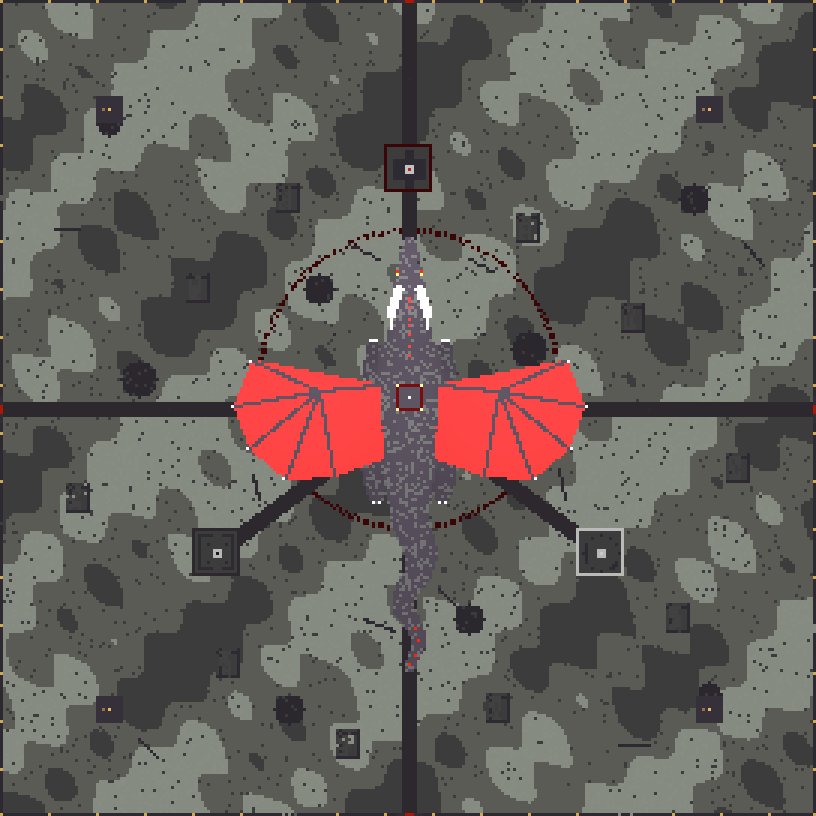
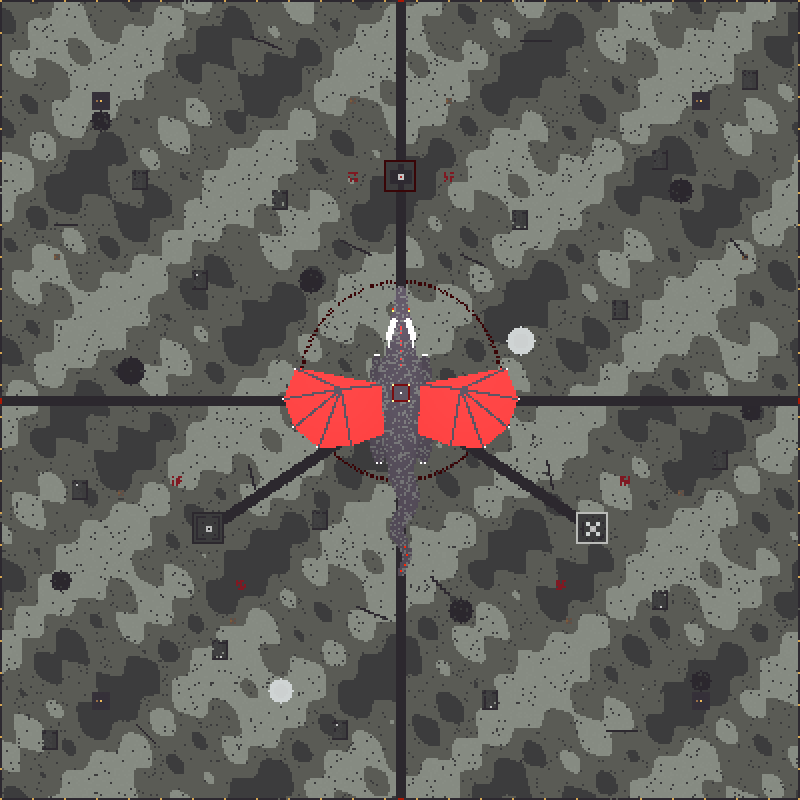
Warzone agrandie à 25×25 chunks, avec pièges
Tout est recalé sur 400×400 : avant-postes, tours, ruines, murs, piliers,
cratères, brèches et avant-postes extérieurs (176 blocs au-delà du bord).
Pièges : fosses à pics avec échelle, plaques piégées sur distributeurs de
flèches, toiles dans les ruines, ronces sur les approches, neige poudreuse
à Argent et dans deux cratères. write_schem sait écrire des block entities
(distributeurs remplis).

Claude-Session: https://claude.ai/code/session_01VPVdT1uD4uVrbpiLTJKxbM

diff --git a/minecraft/warzone/generate.py b/minecraft/warzone/generate.py
@@ -2,7 +2,7 @@
 
 Usage : python3 minecraft/warzone/generate.py   (Pillow + numpy ; réutilise minecraft/spawn)
 Sorties dans minecraft/warzone/ :
-  vaeloria-warzone.schem              la warzone : 17 × 17 chunks (272 × 272), dragon, bâtiments, 3 avant-postes
+  vaeloria-warzone.schem              la warzone : 25 × 25 chunks (400 × 400), dragon, bâtiments, 3 avant-postes, pièges
   vaeloria-avant-poste-exterieur.schem  délimitation d'un avant-poste extérieur de 3 × 3 chunks, à coller 4 fois
   apercu-*.png
 
@@ -26,7 +26,7 @@ _spawn = importlib.util.module_from_spec(_spec)
 _spec.loader.exec_module(_spawn)
 LOGO_BLOCKS, Palette, write_schem, logo_grid = _spawn.LOGO_BLOCKS, _spawn.Palette, _spawn.write_schem, _spawn.logo_grid
 
-HALF = 136  # bord : chunks -8..8 autour du chunk central → x, z de -136 à 135
+HALF = 200  # bord : chunks -12..12 autour du chunk central → x, z de -200 à 199
 YMIN, YMAX = -8, 108
 LIFT = 44  # le dragon vole : son point le plus bas reste à plus de 44 blocs du sol, hors de portée d'une perle (~37)
 PB = "minecraft:polished_blackstone_bricks"
@@ -34,12 +34,12 @@ DT = "minecraft:deepslate_tiles"
 
 # Les trois avant-postes intérieurs : un chunk chacun, centrés sur des centres de chunk, à 120° autour du dragon.
 OUTPOSTS = {
-    "rubis": {"center": (0, -80), "glass": "minecraft:red_stained_glass", "line": "minecraft:red_nether_bricks"},
-    "argent": {"center": (64, 48), "glass": "minecraft:white_stained_glass", "line": "minecraft:calcite"},
-    "onyx": {"center": (-64, 48), "glass": "minecraft:black_stained_glass", "line": "minecraft:polished_blackstone"},
+    "rubis": {"center": (0, -112), "glass": "minecraft:red_stained_glass", "line": "minecraft:red_nether_bricks"},
+    "argent": {"center": (96, 64), "glass": "minecraft:white_stained_glass", "line": "minecraft:calcite"},
+    "onyx": {"center": (-96, 64), "glass": "minecraft:black_stained_glass", "line": "minecraft:polished_blackstone"},
 }
 GATES = {"nord": (0, -1), "est": (1, 0), "sud": (0, 1), "ouest": (-1, 0)}
-OUTER_D = 336  # centre des avant-postes extérieurs : 176 blocs au-delà du bord de la warzone
+OUTER_D = 400  # centre des avant-postes extérieurs : 176 blocs au-delà du bord de la warzone
 ARRIVAL = (0, 34, -4)  # pieds du joueur sur la plateforme, dans le repère du dragon (avant élévation)
 
 
@@ -49,6 +49,7 @@ class Vol:
         self.pal = Palette()
         n = 2 * half
         self.v = np.zeros((ymax - ymin + 1, n, n), dtype=np.int32)
+        self.block_entities = []  # (x, y, z, id, items) en coordonnées locales
 
     def ok(self, x, y, z):
         return -self.half <= x < self.half and -self.half <= z < self.half and self.ymin <= y <= self.ymax
@@ -109,7 +110,9 @@ def ground(w, rng):
             if top == "minecraft:pale_moss_block" and rng.random() < 0.18:
                 w.put(x, 0, z, "minecraft:pale_moss_carpet")
     # Cratères de bataille : creux peu profonds, fond en pierre noire, une veine de rubis.
-    for cx, cz, r in ((-30, -40, 5), (40, -20, 6), (20, 70, 5), (-90, -10, 6), (95, -70, 5), (-40, 100, 5), (100, 95, 4), (-100, -95, 4)):
+    frost = {(60, -30), (-60, 145)}  # cratères de givre : fond en neige poudreuse
+    for cx, cz, r in ((-45, -60, 6), (60, -30, 7), (30, 105, 6), (-135, -15, 7), (140, -105, 6), (-60, 145, 6), (150, 140, 5),
+                      (-150, -140, 5), (-170, 90, 5), (175, 5, 5)):
         for x in range(cx - r, cx + r + 1):
             for z in range(cz - r, cz + r + 1):
                 d = math.hypot(x - cx, z - cz)
@@ -117,7 +120,12 @@ def ground(w, rng):
                     depth = 1 if d > r * 0.55 else 2
                     for y in range(-depth, 1):
                         w.put(x, y, z, "minecraft:air")
-                    w.put(x, -depth - 1, z, "minecraft:deepslate_redstone_ore" if rng.random() < 0.08 else "minecraft:blackstone")
+                    if (cx, cz) in frost:
+                        for y in range(-depth - 1, -depth + 1):
+                            w.put(x, y, z, "minecraft:powder_snow")
+                        w.put(x, -depth - 2, z, "minecraft:blackstone")
+                    else:
+                        w.put(x, -depth - 1, z, "minecraft:deepslate_redstone_ore" if rng.random() < 0.08 else "minecraft:blackstone")
 
 
 def road(w, a, b, width=2):
@@ -135,7 +143,7 @@ def road(w, a, b, width=2):
 
 def border(w, rng):
     """Muret de 2 blocs sur le bord exact des chunks, pilier à chaque coin de chunk, 4 portes et des brèches."""
-    breaches = {(-1, 40), (-1, -72), (1, 72), (1, -40)}  # (côté, position) : brèches à travers le muret
+    breaches = {(-1, 59), (-1, -106), (1, 106), (1, -59)}  # (côté, position) : brèches à travers le muret
 
     def wall_at(t, c):
         return all(abs(t - p) > 2 for s, p in breaches if s == c)
@@ -325,6 +333,10 @@ def ruin(w, cx, cz, rng, wdt=7, dpt=9):
                     continue
                 window = y == 2 and (dx % 3 == 0) and abs(dz) == dpt // 2 and not door
                 w.put(x, y, z, "minecraft:air" if window else ("minecraft:cracked_polished_blackstone_bricks" if rng.random() < 0.3 else PB))
+    # Piège : toiles d'araignée derrière la porte et dans un coin. On entre, on est ralenti, on se fait cueillir.
+    w.put(cx, 0, cz + dpt // 2 - 1, "minecraft:cobweb")
+    w.put(cx, 1, cz + dpt // 2 - 1, "minecraft:cobweb")
+    w.put(cx - wdt // 2 + 1, 0, cz - dpt // 2 + 1, "minecraft:cobweb")
     for dx in range(-wdt // 2 + 1, 1):  # reste de toit d'un côté
         for dz in range(-dpt // 2 + 1, dpt // 2):
             if rng.random() < 0.7:
@@ -388,6 +400,12 @@ def outpost(w, key, rng):
                 w.put(x, y, z, "minecraft:calcite" if y < h - 1 else "minecraft:chiseled_polished_blackstone")
         for a, b in (((cx - 5, cz - 2), (cx - 5, cz + 2)), ((cx + 3, cz + 5), (cx + 5, cz + 4))):
             wall_seg(w, a, b, 2, rng)
+        for sx in (-1, 1):  # piège : quatre plaques de neige poudreuse au ras du sol, couleur argent
+            for sz in (-1, 1):
+                for dx in (2, 3):
+                    for dz in (2, 3):
+                        for y in (-2, -1):
+                            w.put(cx + sx * dx, y, cz + sz * dz, "minecraft:powder_snow")
         beacon(0)
     else:
         # Cour fermée : murs de 4, deux portes face à face. Des goulots, pas de fenêtres.
@@ -405,6 +423,34 @@ def outpost(w, key, rng):
         beacon(0)
 
 
+def traps(w, rng):
+    """Petits pièges répartis dans la warzone. Tout est déjà construit : rien à poser en jeu."""
+    # Fosses à pics : 3 × 3, 5 de profondeur, stalagmites au fond, une échelle pour ressortir lentement.
+    for px, pz in ((24, -150), (-24, -150), (140, 46), (84, 110), (-140, 46), (-84, 110), (172, -72), (-172, -72)):
+        for x in range(px - 1, px + 2):
+            for z in range(pz - 1, pz + 2):
+                for y in range(-5, 1):
+                    w.put(x, y, z, "minecraft:air")
+                w.put(x, -6, z, "minecraft:tuff")
+                if (x + z) % 2 == 0:
+                    w.put(x, -5, z, "minecraft:pointed_dripstone[thickness=tip,vertical_direction=up]")
+        for y in range(-5, 0):
+            w.put(px - 1, y, pz, "minecraft:ladder[facing=east]")
+    # Plaques piégées : une plaque de pierre noire sur la route, un distributeur de flèches caché dessous.
+    arrows = [(slot, "minecraft:arrow", 64) for slot in range(9)]
+    for x, z in ((1, -60), (-1, -170), (-1, 60), (1, 170), (60, 1), (170, -1), (-60, -1), (-170, 1), (48, 32), (-48, 32)):
+        w.put(x, -1, z, "minecraft:dispenser[facing=up]")
+        w.put(x, 0, z, "minecraft:polished_blackstone_pressure_plate")
+        w.block_entities.append((x, -1, z, "minecraft:dispenser", arrows))
+    # Ronces rubis : buissons de baies sur les approches des avant-postes. Elles ralentissent et blessent.
+    for cx, cz in ((-24, -112), (24, -112), (112, 40), (80, 92), (-112, 40), (-80, 92)):
+        for x in range(cx - 2, cx + 3):
+            for z in range(cz - 2, cz + 3):
+                if rng.random() < 0.65:
+                    w.put(x, -1, z, "minecraft:coarse_dirt")
+                    w.put(x, 0, z, "minecraft:sweet_berry_bush[age=3]")
+
+
 def build_warzone():
     rng = np.random.default_rng(21)
     w = Vol()
@@ -415,27 +461,30 @@ def build_warzone():
     for name, (dx, dz) in GATES.items():
         road(w, (dx * 30, dz * 30), (dx * (HALF - 1), dz * (HALF - 1)))
     border(w, rng)
-    # Tours de guet aux quatre diagonales : point haut entre deux avant-postes.
-    for x, z in ((-100, -100), (100, -100), (100, 100), (-100, 100)):
+    # Tours de guet aux quatre diagonales : point haut entre deux portes.
+    for x, z in ((-150, -150), (150, -150), (150, 150), (-150, 150)):
         tower(w, x, z)
-    # Ruines, murs brisés, piliers : couvert réparti dans chaque secteur.
-    for x, z in ((-40, -70), (40, -60), (-110, 30), (110, 20), (30, 100), (-20, 112), (-70, -40), (75, -30), (-60, 85), (90, 70)):
+    # Ruines, murs brisés, piliers : couvert réparti dans chaque secteur, jamais sur les routes.
+    for x, z in ((-60, -100), (60, -90), (-160, 45), (160, 30), (45, 150), (-30, 165), (-100, -60), (110, -45),
+                 (-90, 125), (130, 100), (-130, -110), (130, -120), (-40, 60), (175, -160), (-175, 170)):
         ruin(w, x, z, rng)
-    for a, b, h in (((-20, -55), (-10, -50), 3), ((20, -50), (28, -46), 2), ((50, 20), (52, 30), 3), ((-52, 22), (-50, 30), 2),
-                    ((-15, 70), (-5, 74), 2), ((10, 60), (16, 66), 3), ((-118, -60), (-110, -60), 2), ((112, -55), (118, -48), 2),
-                    ((70, 112), (80, 112), 2), ((-90, 110), (-84, 116), 3)):
+    for a, b, h in (((-30, -80), (-15, -73), 3), ((30, -73), (41, -68), 2), ((73, 30), (76, 44), 3), ((-76, 32), (-73, 44), 2),
+                    ((-22, 103), (-7, 109), 2), ((15, 88), (24, 97), 3), ((-173, -88), (-162, -88), 2), ((165, -81), (173, -71), 2),
+                    ((103, 165), (118, 165), 2), ((-132, 162), (-123, 171), 3), ((60, -180), (75, -180), 2), ((-75, -182), (-60, -176), 3)):
         wall_seg(w, a, b, h, rng)
-    for x, z in ((-25, -25), (25, -25), (-30, 30), (30, 30), (0, 60), (-80, 0), (80, 0), (0, -110), (60, -100), (-60, -100)):
+    for x, z in ((-37, -37), (37, -37), (-44, 44), (44, 44), (12, 90), (-118, 12), (118, -12), (14, -165), (90, -150), (-90, -150),
+                 (150, 60), (-150, 60), (60, 180), (-60, 180)):
         pillar(w, x, z, 5)
     for key in OUTPOSTS:
         outpost(w, key, rng)
+    traps(w, rng)
     dragon(Lifted(w, LIFT), rng)
     # Cercle d'atterrissage sous le dragon en vol : on saute du dos, on atterrit ici (dégâts de chute coupés par la région).
     for a in range(0, 360, 2):
         for rr in (49, 50):
             x, z = round(rr * math.cos(math.radians(a))), round(-10 + rr * math.sin(math.radians(a)))
-            if w.get(x, -1, z) not in (PB, "minecraft:polished_blackstone"):
-                w.put(x, -1, z, "minecraft:red_nether_bricks")
+            if w.get(x, -1, z) in ("minecraft:pale_moss_block", "minecraft:tuff", "minecraft:cobbled_deepslate"):
+                w.put(x, -1, z, "minecraft:red_nether_bricks")  # seulement sur le sol nu : routes et pièges intacts
     return w
 
 
@@ -459,7 +508,8 @@ def render(w, path_top, path_side, scale):
              "blackstone": (53, 48, 56), "calcite": (223, 224, 220), "quartz": (236, 230, 223), "red_stained": (190, 40, 40),
              "white_stained": (235, 235, 235), "black_stained": (30, 30, 34), "redstone": (175, 24, 5), "red_nether": (69, 7, 9),
              "lantern": (230, 180, 90), "iron": (220, 220, 220), "beacon": (120, 230, 220), "shroom": (240, 140, 70),
-             "ladder": (150, 110, 70), "lodestone": (150, 150, 155)}
+             "ladder": (150, 110, 70), "lodestone": (150, 150, 155), "powder_snow": (248, 253, 253),
+             "sweet_berry": (150, 30, 40), "cobweb": (230, 230, 230), "dripstone": (130, 100, 85), "pressure_plate": (60, 55, 64)}
 
     def color(n):
         return next((c for k, c in shade.items() if k in n), (110, 110, 110))
@@ -490,10 +540,11 @@ def render(w, path_top, path_side, scale):
 
 def main():
     w = build_warzone()
-    write_schem(HERE / "vaeloria-warzone.schem", w.v, w.pal.names, (HALF, -YMIN, HALF))
+    bes = [(x + HALF, y - YMIN, z + HALF, i, items) for x, y, z, i, items in w.block_entities]
+    write_schem(HERE / "vaeloria-warzone.schem", w.v, w.pal.names, (HALF, -YMIN, HALF), bes)
     o = build_outer()
     write_schem(HERE / "vaeloria-avant-poste-exterieur.schem", o.v, o.pal.names, (24, 1, 24))
-    render(w, HERE / "apercu-warzone-dessus.png", HERE / "apercu-warzone-sud.png", 3)
+    render(w, HERE / "apercu-warzone-dessus.png", HERE / "apercu-warzone-sud.png", 2)
     # Vue rapprochée du dragon.
     d = Vol(half=66, ymin=-1, ymax=70)
     dragon(d, np.random.default_rng(21))

diff --git a/minecraft/spawn/generate.py b/minecraft/spawn/generate.py
@@ -73,6 +73,19 @@ def nbt_compound(name, children: list[bytes]):
     return _tag(10, name, b"".join(children) + b"\x00")
 
 
+def nbt_byte(name, v):
+    return _tag(1, name, struct.pack(">b", v))
+
+
+def nbt_string(name, v: str):
+    return _tag(8, name, _str(v))
+
+
+def nbt_compound_list(name, payloads: list[bytes]):
+    """Liste de compounds ; chaque payload = enfants concaténés, sans le TAG_End final."""
+    return _tag(9, name, bytes([10]) + struct.pack(">i", len(payloads)) + b"".join(p + b"\x00" for p in payloads))
+
+
 def nbt_empty_compound_list(name):
     return _tag(9, name, bytes([10]) + struct.pack(">i", 0))
 
@@ -87,8 +100,11 @@ def varints(values: np.ndarray) -> bytes:
     return bytes(out)
 
 
-def write_schem(path: Path, blocks: np.ndarray, palette: list[str], origin: tuple[int, int, int]):
-    """blocks : indices de palette, forme (Y, Z, X). origin : point de collage (x, y, z) dans le volume."""
+def write_schem(path: Path, blocks: np.ndarray, palette: list[str], origin: tuple[int, int, int], block_entities=None):
+    """blocks : indices de palette, forme (Y, Z, X). origin : point de collage (x, y, z) dans le volume.
+
+    block_entities : [(x, y, z, id, [(slot, item_id, count), ...]), ...] en coordonnées du volume (ex. distributeurs remplis).
+    """
     h, l, w = blocks.shape
     data = varints(blocks.reshape(-1))  # ordre x + z*W + y*W*L
     root = nbt_compound(
@@ -104,7 +120,11 @@ def write_schem(path: Path, blocks: np.ndarray, palette: list[str], origin: tupl
             nbt_int("PaletteMax", len(palette)),
             nbt_compound("Palette", [nbt_int(name, i) for i, name in enumerate(palette)]),
             nbt_bytes("BlockData", data),
-            nbt_empty_compound_list("BlockEntities"),
+            nbt_compound_list("BlockEntities", [
+                nbt_ints("Pos", [x, y, z]) + nbt_string("Id", be_id)
+                + nbt_compound_list("Items", [nbt_byte("Slot", slot) + nbt_string("id", item) + nbt_int("count", n) for slot, item, n in items])
+                for x, y, z, be_id, items in (block_entities or [])
+            ]),
         ],
     )
     buf = io.BytesIO()
